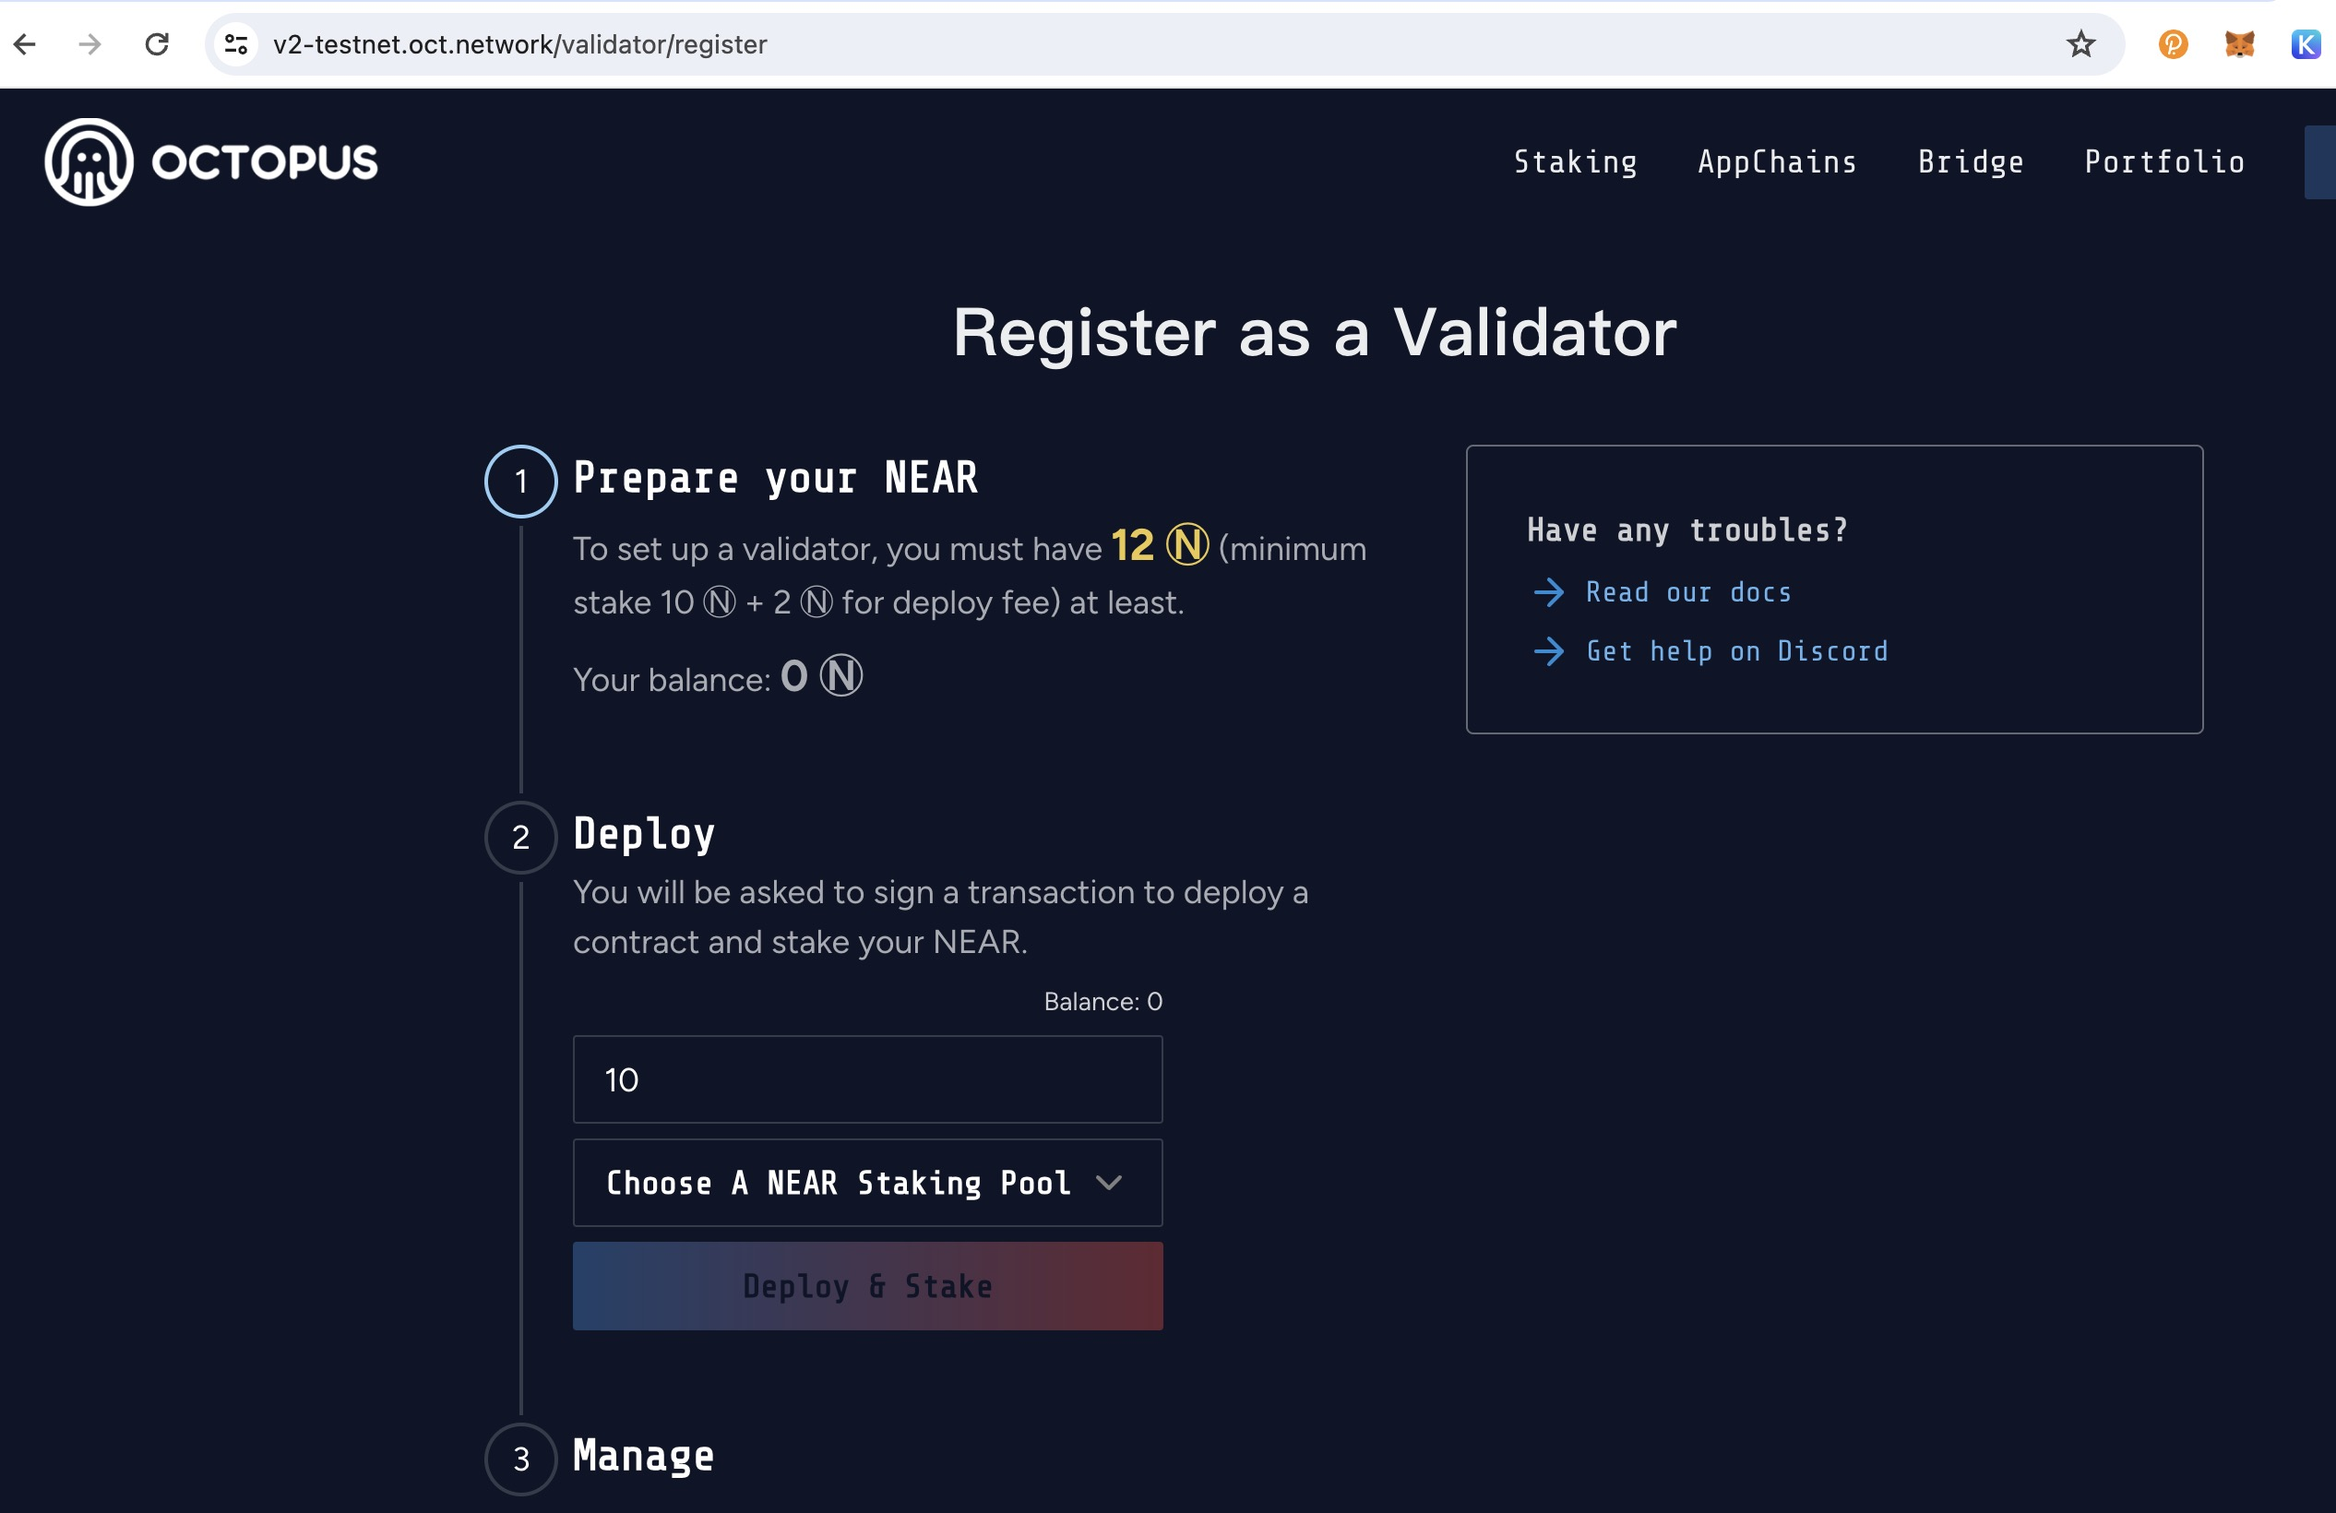
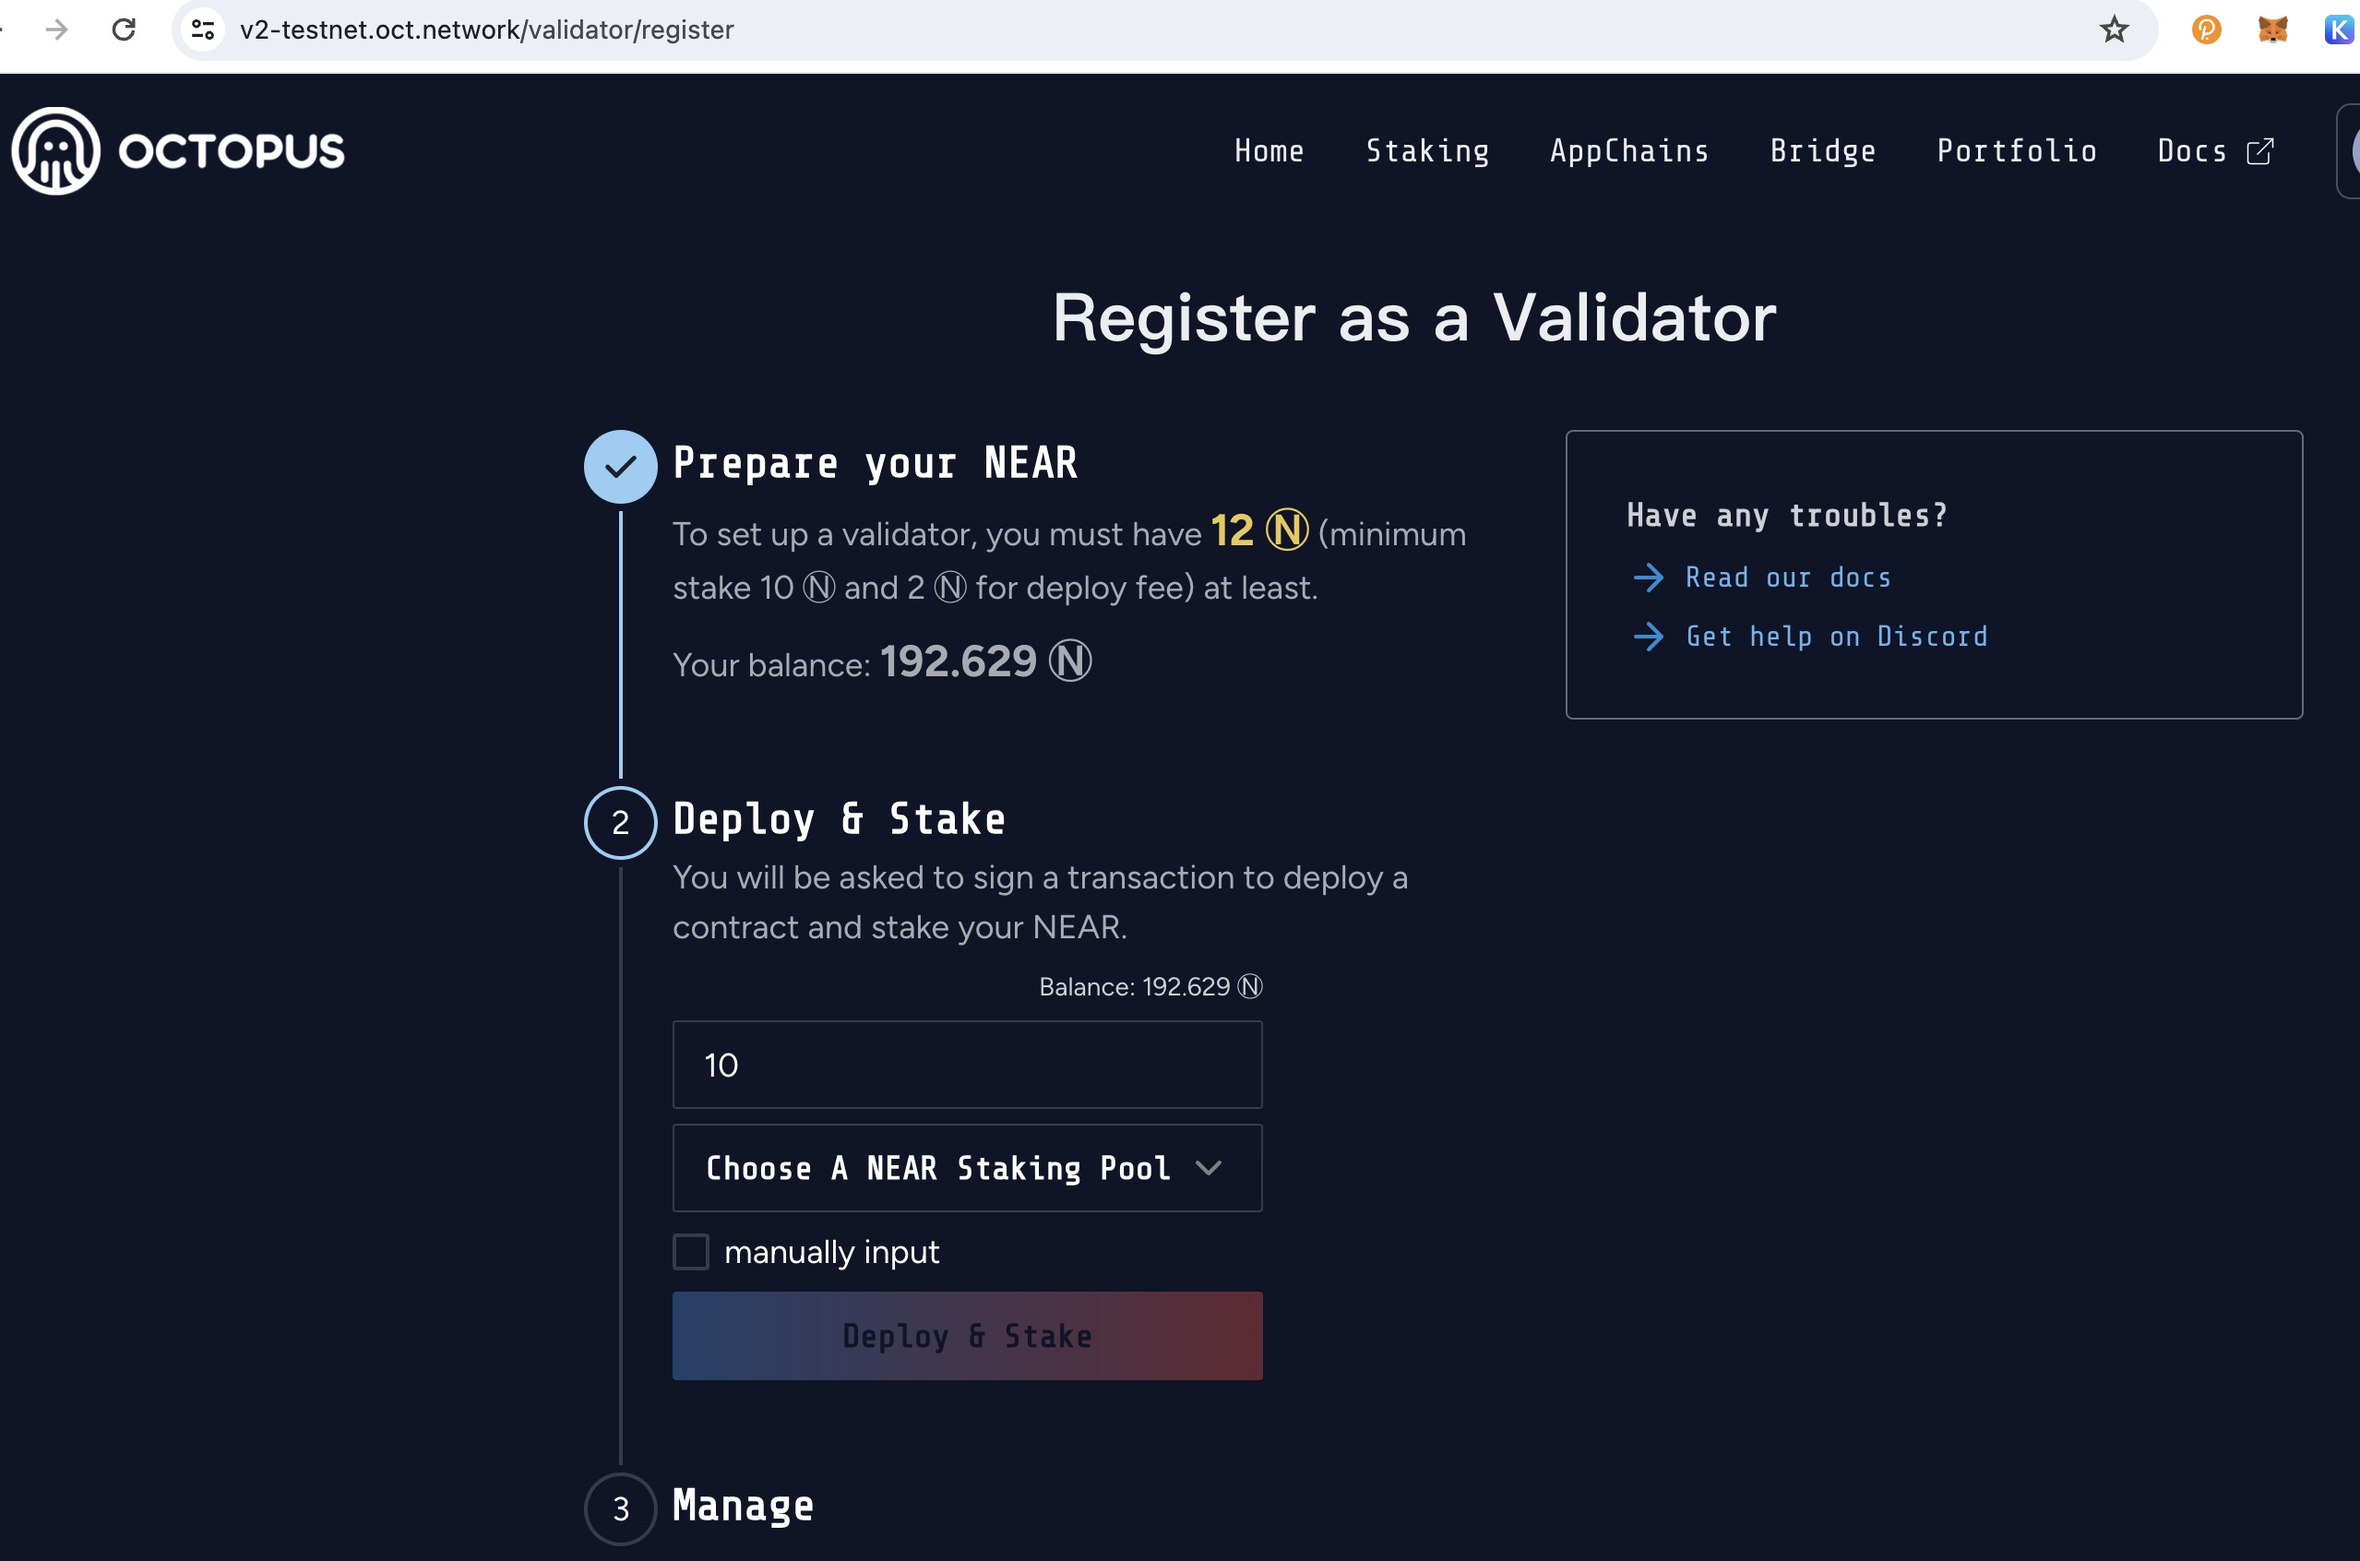
staking pool

diff --git a/src/maintain/v2/validator-register.md b/src/maintain/v2/validator-register.md
@@ -22,6 +22,10 @@ Learn how to register validator of the appchain via the following steps:
 And then complete the following steps to deploy and stake $NEAR:
 
 * Input the amount of $NEAR
-* Select a staking pool to stake $NEAR
+* Select a NEAR staking pool to stake $NEAR
+
+To make the $NEAR staking more decentralized, the staking pools that have been selected by the current validators will not appear in the NEAR Staking Pool list.
+
+Also, if you are the owner of the staking pool or desire to stake a dedicated staking pool, you can stake the staking pool by clicking the **manual input** and then input its name.
 
 ![Staking $NEAR](../../images/maintain/v2/v2_validator_deploy_stake.jpg)
